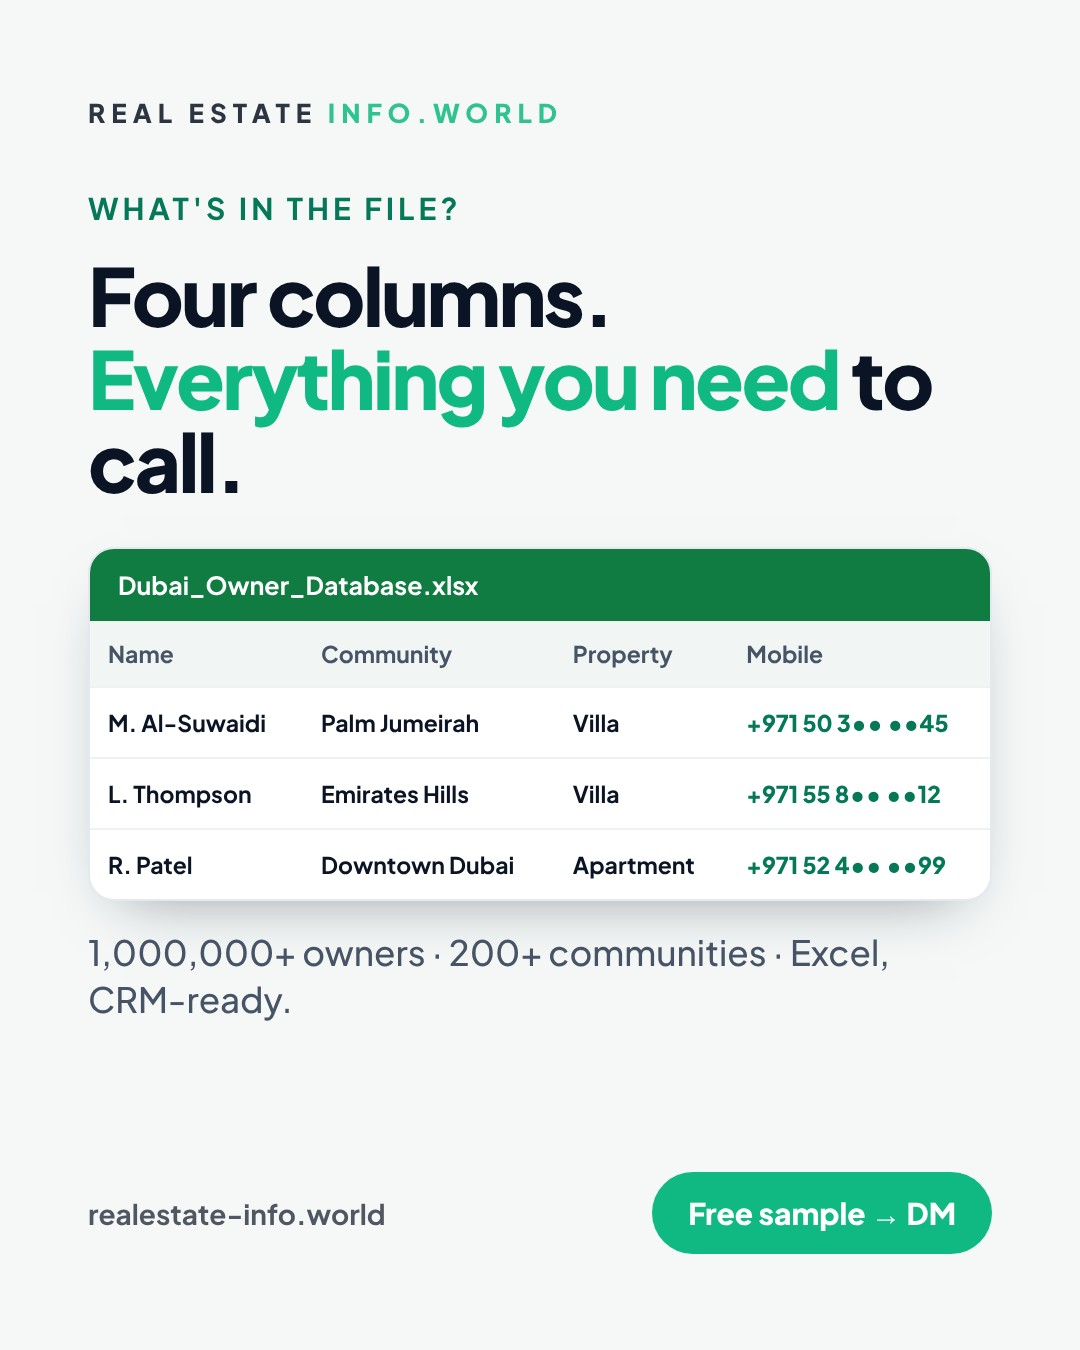
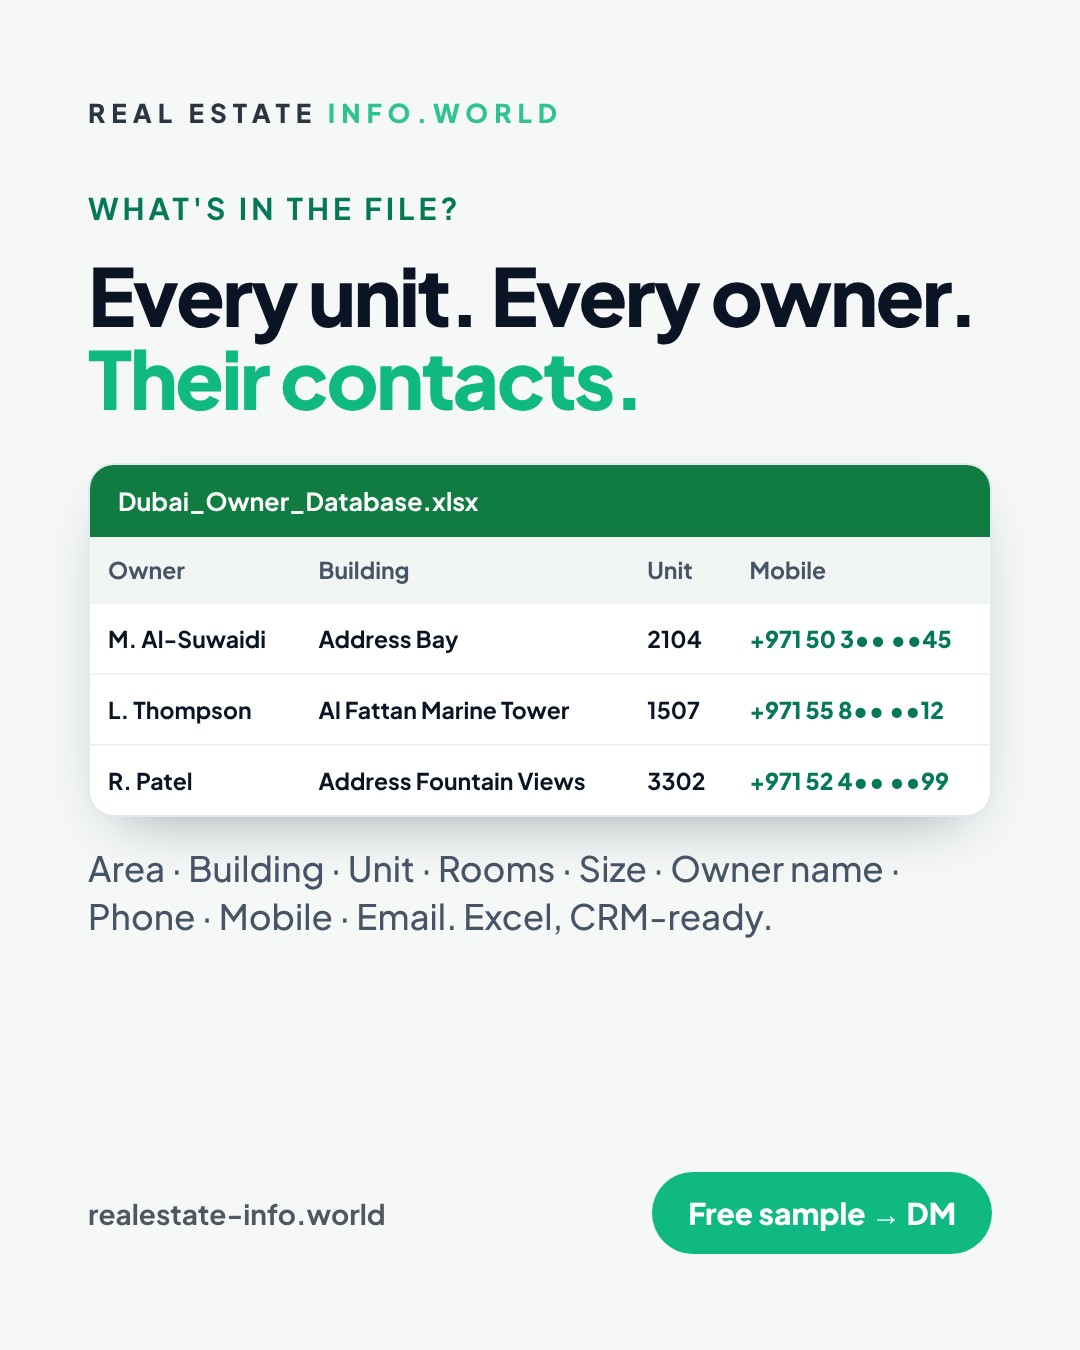
Say samples carry no contact details; show the owner file's real fields
Samples are sent without phone, mobile or email; those come with the
full file. The site, emails, guides and outreach kit said samples had
"the same Excel columns" and invited buyers to call the sample records.

- Sample copy on the home, free-sample and product pages, the sample
  FAQs and the confirmation email now say contact details come with the
  full file. The free-sample FAQ says what a sample does contain.
- Guides and the lead ROI tool no longer tell readers to call sample
  records; the outreach kit's messages are reworded the same way.
- The owner database preview shows Owner, Building, Unit and Mobile, and
  its copy and FAQ list the file's real fields: area, building, unit,
  rooms, size, owner name, phone, mobile and email. Community guides say
  the same.
- Instagram posts for 18 and 21 November (images and captions) match:
  the real fields, and a sample without contacts.

Claude-Session: https://claude.ai/code/session_014LUVErGzTyFgCVKAwjdgPx

Changed region(s): [[0.0611, 0.1867, 0.9167, 0.7467]]

diff --git a/lib/constants.ts b/lib/constants.ts
@@ -233,12 +233,12 @@ export const PRODUCTS: readonly Product[] = [
       delivery: "10 Minutes (Instant)",
     },
     sample: {
-      columns: ["Name", "Community", "Property", "Mobile"],
+      columns: ["Owner", "Building", "Unit", "Mobile"],
       rows: [
-        ["M. Al-Suwaidi", "Palm Jumeirah", "Villa", "+971 50 3•• ••45"],
-        ["L. Thompson", "Emirates Hills", "Villa", "+971 55 8•• ••12"],
-        ["R. Patel", "Downtown Dubai", "Apartment", "+971 52 4•• ••99"],
-        ["S. Al-Maktoum", "Jumeirah Bay", "Penthouse", "+971 50 1•• ••73"],
+        ["M. Al-Suwaidi", "Address Bay", "2104", "+971 50 3•• ••45"],
+        ["L. Thompson", "Al Fattan Marine Tower", "1507", "+971 55 8•• ••12"],
+        ["R. Patel", "Address Fountain Views", "3302", "+971 52 4•• ••99"],
+        ["S. Al-Maktoum", "Address Dubai Marina", "1810", "+971 50 1•• ••73"],
       ],
       maskedColumn: 0,
       emphasisColumn: 3,
@@ -262,7 +262,7 @@ export const PRODUCTS: readonly Product[] = [
       {
         heading: "What is the Dubai Property Owner Database?",
         paragraphs: [
-          "The Dubai Property Owner Database is a Dubai real estate database in a single Excel file, listing more than 1,000,000 verified owners of property in Dubai. Every record gives you the owner's name, the community the property sits in, the property type (apartment, villa, townhouse or penthouse) and a direct mobile number — the four things you need to start a listing conversation.",
+          "The Dubai Property Owner Database is a Dubai real estate database in a single Excel file, listing more than 1,000,000 verified owners of property in Dubai. Every record gives you the owner's name, the area, building and unit, the number of rooms and the size, plus the owner's phone, mobile and email: everything you need to start a listing conversation about a specific unit.",
           "Records are cross-checked against Dubai Land Department data and the whole file is refreshed every month, so you are calling current owners rather than people who sold two years ago. The release date is shown at the top of this page.",
         ],
       },
@@ -307,7 +307,7 @@ export const PRODUCTS: readonly Product[] = [
       {
         question: "Which Dubai communities does the owner data cover?",
         answer:
-          "200+ communities including Dubai Marina, Downtown Dubai, Business Bay, Palm Jumeirah, JVC, Dubai Hills Estate, Arabian Ranches and Emirates Hills. Every record lists its community, so you can filter to your area in Excel or your CRM.",
+          "200+ communities including Dubai Marina, Downtown Dubai, Business Bay, Palm Jumeirah, JVC, Dubai Hills Estate, Arabian Ranches and Emirates Hills. Every record lists its area, building and unit, so you can filter to your area, or a single tower, in Excel or your CRM.",
       },
       {
         question: "How often is the Dubai owner data updated?",
@@ -877,7 +877,7 @@ export function getFaqs(product: Product): Faq[] {
     ...(product.faqs ?? []),
     {
       question: `Can I get a free sample of the ${product.shortName}?`,
-      answer: `Yes. Request a free sample on this page and we send you real records from the current ${product.name} file, in the same Excel columns as the full dataset, on WhatsApp. No payment or card is needed.`,
+      answer: `Yes. Request a free sample on this page and we send you real records from the current ${product.name} file, in the same Excel layout as the full dataset, on WhatsApp. Contact details come with the full file. No payment or card is needed.`,
     },
     {
       question: "How do I pay?",

diff --git a/lib/guides.ts b/lib/guides.ts
@@ -101,7 +101,7 @@ const CORE_GUIDES: readonly Guide[] = [
       {
         heading: "Test before you commit to either",
         paragraphs: [
-          "Ask a pay at closing program for its fee, how long it applies, and whether leads are exclusive, in writing. Ask a list seller for a sample. We send [free samples](/free-sample) of our buyer leads for [Miami](/products/miami-buyer-leads), [California](/products/california-buyer-leads), [Dubai](/products/buyer-leads) and the [UK](/products/uk-buyer-leads), so you can call real records before you pay. For every other way to fill a pipeline, read [how to get real estate leads](/guides/how-to-get-real-estate-leads).",
+          "Ask a pay at closing program for its fee, how long it applies, and whether leads are exclusive, in writing. Ask a list seller for a sample. We send [free samples](/free-sample) of our buyer leads for [Miami](/products/miami-buyer-leads), [California](/products/california-buyer-leads), [Dubai](/products/buyer-leads) and the [UK](/products/uk-buyer-leads), so you can check real records before you pay. For every other way to fill a pipeline, read [how to get real estate leads](/guides/how-to-get-real-estate-leads).",
         ],
       },
     ],
@@ -214,7 +214,7 @@ const CORE_GUIDES: readonly Guide[] = [
         heading: "9. Buy a lead list",
         paragraphs: [
           "A lead list gives you hundreds or thousands of contacts on day one, for a one-time price instead of a monthly fee, and every record is yours to work as long as the data holds up. You start the conversation yourself, so it rewards teams that call quickly and follow up consistently.",
-          "We sell buyer leads for [Miami](/products/miami-buyer-leads), [California](/products/california-buyer-leads), [Dubai](/products/buyer-leads) and the [UK](/products/uk-buyer-leads), each with the buyer's target area, budget and timeframe, plus the [Dubai Property Owner Database](/products/owner-database) for listings. [Ask for a free sample](/free-sample) and call those records before you pay; our guides to [where to buy real estate leads](/guides/where-to-buy-real-estate-leads) and [how much real estate leads cost](/guides/how-much-do-real-estate-leads-cost) cover what to check with any provider.",
+          "We sell buyer leads for [Miami](/products/miami-buyer-leads), [California](/products/california-buyer-leads), [Dubai](/products/buyer-leads) and the [UK](/products/uk-buyer-leads), each with the buyer's target area, budget and timeframe, plus the [Dubai Property Owner Database](/products/owner-database) for listings. [Ask for a free sample](/free-sample) and check the records before you pay; our guides to [where to buy real estate leads](/guides/where-to-buy-real-estate-leads) and [how much real estate leads cost](/guides/how-much-do-real-estate-leads-cost) cover what to check with any provider.",
         ],
       },
       {

diff --git a/lib/community-guides.ts b/lib/community-guides.ts
@@ -42,7 +42,7 @@ function communityGuide(spec: CommunitySpec): Guide {
         heading: `Getting ${spec.name} owners' contact details`,
         paragraphs: [
           "Owner contact details are not public in Dubai, and the Dubai Land Department does not let you look up who owns a unit. A verified list is the practical starting point.",
-          `Our [Dubai Property Owner Database](/products/owner-database) covers ${spec.name} among its 200+ communities, with a direct mobile number, the community and the property type on every record, so you can filter the Excel file to ${spec.name} ${spec.propertyTypes} and start calling the same day. It is $300 one-time and delivered within 10 minutes; [get a free sample on WhatsApp](/free-sample?dataset=owner-database) first.`,
+          `Our [Dubai Property Owner Database](/products/owner-database) covers ${spec.name} among its 200+ communities, with the building, unit, rooms and size and the owner's phone, mobile and email on every record, so you can filter the Excel file to ${spec.name} ${spec.propertyTypes} building by building and start calling the same day. It is $300 one-time and delivered within 10 minutes; [get a free sample on WhatsApp](/free-sample?dataset=owner-database) first.`,
           `For the wider playbook, read [how to find property owners in Dubai](/guides/how-to-find-property-owners-in-dubai). Nearby guides: ${spec.related}.`,
         ],
       },
@@ -57,7 +57,7 @@ function communityGuide(spec: CommunitySpec): Guide {
       ...spec.faqs,
       {
         question: `Does the Dubai owner database include ${spec.name}?`,
-        answer: `Yes. ${spec.name} is one of the 200+ communities covered. Every record carries its community and property type, so you can filter the Excel file to ${spec.name} ${spec.propertyTypes}.`,
+        answer: `Yes. ${spec.name} is one of the 200+ communities covered. Every record carries its area, building and unit, so you can filter the Excel file to ${spec.name} ${spec.propertyTypes} and work it building by building.`,
       },
     ],
   };

diff --git a/lib/email.ts b/lib/email.ts
@@ -123,7 +123,7 @@ export function sampleConfirmationEmail(product: Product): {
     "",
     `We received your request for a free sample of the ${product.name}.`,
     "",
-    "We'll send the sample to your WhatsApp number, usually within a few hours. It contains real records from the current file, in the same Excel columns as the full dataset.",
+    "We'll send the sample to your WhatsApp number, usually within a few hours. It contains real records from the current file, in the same Excel layout as the full dataset. Contact details come with the full file.",
     "",
     `Want it right now? Message us on WhatsApp: ${whatsappUrl}`,
     "",
@@ -138,7 +138,7 @@ export function sampleConfirmationEmail(product: Product): {
   const html = emailShell(`
           <p style="margin:0 0 16px;font-size:16px">Hi,</p>
           <p style="margin:0 0 16px;font-size:16px;line-height:1.5">We received your request for a <strong>free sample</strong> of the <strong>${escapeHtml(product.name)}</strong>.</p>
-          <p style="margin:0 0 24px;font-size:16px;line-height:1.5">We'll send the sample to your WhatsApp number, usually within a few hours. It contains real records from the current file, in the same Excel columns as the full dataset.</p>
+          <p style="margin:0 0 24px;font-size:16px;line-height:1.5">We'll send the sample to your WhatsApp number, usually within a few hours. It contains real records from the current file, in the same Excel layout as the full dataset. Contact details come with the full file.</p>
           ${emailButton(whatsappUrl, "Message us on WhatsApp")}
           <p style="margin:0 0 8px;font-size:14px;color:#475467">Full dataset: <a href="${productUrl}" style="color:#047857">${escapeHtml(product.name)}</a>, ${escapeHtml(price)} one-time. Pay by card or USDT. 7-day quality guarantee.</p>
           <p style="margin:0;font-size:14px;color:#475467">Questions? Just reply to this email.</p>`);

diff --git a/app/free-sample/page.tsx b/app/free-sample/page.tsx
@@ -35,7 +35,7 @@ const SAMPLE_FAQS = [
   {
     question: "What is in the free sample?",
     answer:
-      "A short extract of real records from the current release, in exactly the same Excel columns as the full file, so you can judge the data quality and test the import into your CRM.",
+      "Real records from the current release for the area you choose, in the same Excel layout as the full file: for the owner database, owner names with their buildings, units, rooms and sizes. Contact details (phone, mobile and email) are kept for the full file, so the sample shows you the coverage and the format before you pay.",
   },
   {
     question: "How fast will I get it?",
@@ -90,8 +90,8 @@ export default function FreeSamplePage() {
               <em className="text-brand-gradient">Check it before you buy.</em>
             </h1>
             <p className="mt-6 max-w-xl text-lg leading-relaxed text-sand">
-              Real records from the current release, in the same Excel columns as the full dataset. No
-              payment, no card.
+              Real records from the current release, in the same Excel layout as the full file. Contact
+              details come with the full file. No payment, no card.
             </p>
             <Steps className="mt-9 hidden lg:grid" />
           </div>

diff --git a/lib/tools.ts b/lib/tools.ts
@@ -548,7 +548,7 @@ export const TOOLS: readonly Tool[] = [
       {
         heading: "Test the data before you spend",
         paragraphs: [
-          "The surest way to estimate your reach rate is to call real records. Every dataset we sell has a [free sample](/free-sample): the [Dubai Property Owner Database](/products/owner-database) and buyer leads for [Dubai](/products/buyer-leads), [Miami](/products/miami-buyer-leads), [California](/products/california-buyer-leads) and the [UK](/products/uk-buyer-leads).",
+          "Check the records before you buy: every dataset we sell has a [free sample](/free-sample) showing its fields and its coverage of your area: the [Dubai Property Owner Database](/products/owner-database) and buyer leads for [Dubai](/products/buyer-leads), [Miami](/products/miami-buyer-leads), [California](/products/california-buyer-leads) and the [UK](/products/uk-buyer-leads).",
         ],
       },
     ],

diff --git a/app/products/[slug]/page.tsx b/app/products/[slug]/page.tsx
@@ -174,7 +174,7 @@ export default async function ProductPage({ params }: Props) {
                   </h3>
                   <p className="mt-3 text-[15px] leading-relaxed text-sand">
                     Get a free sample of the {product.name}: real records from the {product.version} file, in
-                    the same Excel columns as the full dataset.
+                    the same Excel layout as the full dataset. Contact details come with the full file.
                   </p>
                   <ul className="mt-5 space-y-2.5 text-sm text-sand">
                     {["Sent to your WhatsApp", "Usually within a few hours", "No payment or card details"].map(

diff --git a/app/page.tsx b/app/page.tsx
@@ -38,7 +38,7 @@ const HOME_FAQS = [
   {
     question: "Can I see the data before I buy?",
     answer:
-      "Yes. Request a free sample of any dataset and we send you real records from the current file, in the same Excel columns as the full dataset, on WhatsApp. No payment or card is needed.",
+      "Yes. Request a free sample of any dataset and we send you real records from the current file, in the same Excel layout as the full dataset, on WhatsApp. Contact details come with the full file. No payment or card is needed.",
   },
   {
     question: "How do I pay?",

diff --git a/components/Hero.tsx b/components/Hero.tsx
@@ -91,7 +91,7 @@ export function Hero() {
             </div>
             <h2 className="mt-4 font-display text-2xl leading-tight text-ivory">Get a free sample</h2>
             <p className="mt-2 mb-6 text-sm leading-relaxed text-sand">
-              Real records from the current file, in the same Excel columns as the full dataset.
+              Real records from the current file, in the same Excel layout. Contacts come with the full file.
             </p>
             <SampleRequestForm source="hero" />
           </div>

diff --git a/docs/outreach-kit.md b/docs/outreach-kit.md
@@ -64,7 +64,7 @@ There are two ways:
 
 > Hi [name], I saw your listings in [area] on Property Finder. We supply the Dubai Property Owner Database: 1M+ verified owners with direct mobile numbers across 200+ communities, cross-checked against DLD records.
 >
-> Shall I send you a free sample for [area] here on WhatsApp? Call a few owners and judge it yourself.
+> Shall I send you a free sample for [area] here on WhatsApp? You'll see the owners, buildings and units we cover before you pay.
 
 ### Dubai: LinkedIn connection note (under 300 characters)
 
@@ -86,7 +86,7 @@ There are two ways:
 >
 > I noticed your listings in [area]. We supply verified [Miami / California] real estate buyer leads. Each record includes the buyer's target neighborhood, property type, budget and purchase timeframe, sourced fresh this month.
 >
-> Instead of a pitch, I'd rather send you a free sample so you can call a few and judge for yourself. Tap the link below and I'll send it to you on WhatsApp right away:
+> Instead of a pitch, I'd rather send you a free sample so you can see our coverage of your area for yourself. Tap the link below and I'll send it to you on WhatsApp right away:
 >
 > https://wa.me/447546084350?text=Hi%2C%20please%20send%20me%20the%20free%20sample.
 >
@@ -116,7 +116,7 @@ There are two ways:
 ## 5. On WhatsApp: from sample to sale
 
 **When you send the sample:**
-> Hi [name], here's your free sample of the [file name]. They're real records from this month's file, in the same Excel columns as the full dataset. Call a few and see how they respond. Any questions, just ask here.
+> Hi [name], here's your free sample of the [file name]. They're real records from this month's file (owner names, buildings, units and sizes), in the same Excel layout as the full file. Phone, mobile and email come with the full file. Any questions, just ask here.
 
 **Same day, a few hours later:**
 > Did the file open OK? Is [area] the main area you work, or should I check other areas for you too?
